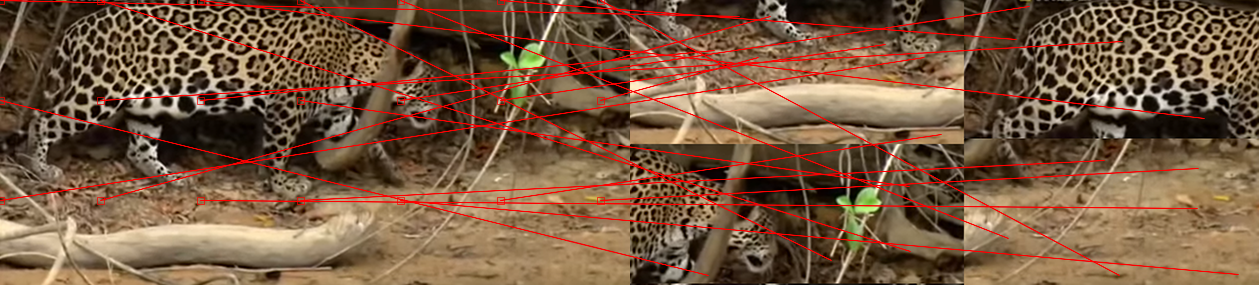
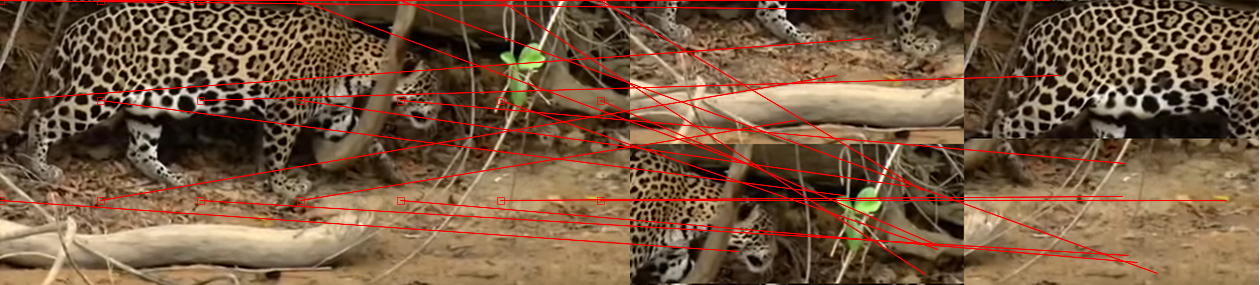
Fixed more stuff, software works, need to figure out if snipping gives better vectors

diff --git a/Assignments/Assignment 4/Code/algorithm.py b/Assignments/Assignment 4/Code/algorithm.py
@@ -29,12 +29,33 @@ np.random.seed(seed=131)
 np.seterr(divide='ignore', invalid='ignore')
 
 # MY STUFF
-# Importing heapify from heapq
+# For making heaps quickly
 from heapq import heapify
+# For convenience, way faster than numpy's
+from math import log
 
 # For accessing the different elements of the tuples
 priority, counter, displacement = 0, 1, 2
 
+
+# This is used to keep track of first availible id to us
+first_avail_id = 0
+
+# Returns an array of unique ids shaped like arr
+# to keep track of each element in arr. Used to
+# assist when trying new vector tuples on heaps.
+def make_ids(arr):
+    global first_avail_id
+
+    # Generate the list of ids, starting from the
+    # first available one
+    flat_ids = np.arange(first_avail_id, first_avail_id + arr.size)
+
+    # Update the maximum id with the new maximum
+    first_avail_id = flat_ids[-1] + 1
+
+    # Return reshaped IDs
+    return flat_ids.reshape(arr.shape)
 
 # Input:
 #   coll: some collection of same-type objects
@@ -121,19 +142,56 @@ def reverse_zip(lst_of_tups):
     return zip(*lst_of_tups)
 
 # Input:
+#   vect_arr: some array of 2D vector
+#   pos_arr: the respective origins of the above vectors
+#   rect: some (2D+) array
+# Output:
+#   Clips a vector's components such that it points inside rect
+def clip_vectors(vect_arr, pos_arr, rect):
+
+    # Coordinates of the target patches that the vector points to
+    trg_cds = vect_arr + pos_arr
+
+    # Upper / Lower X and Y bounds
+    y_lb, x_lb, y_ub, x_ub = edge_indices(rect)
+
+    # Clip the coordinates such that they're inside the rectangle
+    clipped_cds = np.clip(trg_cds,
+                          [y_lb, x_lb],
+                          [y_ub, x_ub])
+
+    # Convert the clipped coordinates back into vectors and return it
+    return (clipped_cds - pos_arr).round().astype(int)
+
+# Returns the integer number of iterations needed
+# for w*alpha^i to decay to < 1:
+def num_iters_needed(w, alpha):
+    # According to Section 3.2, random search terminates when w*alpha^i < 1
+    # Solving for i:
+    # w*alpha^i < 1
+    # =(div by w)-> alpha ^ i < 1 / w
+    # =(log both sides)-> i < -log_alpha (w)
+    # =(mult by -1) -> -i > log_alpha(w)
+
+    # Thus, we can see that the number of iterations needed for random search to terminate is about -log(w)
+
+    # Return an int, this will be used for loops
+    return int(-1 * log(w, alpha)) + 1
+
+# Input:
 #   cur_pos: 2-tuple indicating the position of the heap we want to update in the image
 #   heap_matrix: the matrix of NNF heaps
 #   dup_matrix: the matrix of items we're using to check duplicate displacements against
-#   src_heap: some NNF heap we're trying to improve heap_matrix[cur_pos] with
+#   src_tups: some list of NN-vector tuples we're trying to improve heap_matrix[cur_pos] with
 #   src_patches: patches of the source image
 #   trg_patches: patches of the target image
-# Improves heap_matrix[cur_pos] and updates dup_matrix[cur_pos] using the NN vectors
-# contained in src_heap
-def improve_heap(cur_pos, heap_matrix, dup_matrix, src_heap,
+# Improves heap_matrix[cur_pos] and updates dup_matrix[cur_pos] using the
+# NN vector tuples contained in src_tups
+def improve_heap(cur_pos, heap_matrix, dup_matrix, src_tups,
                  src_patches, trg_patches):
 
-    # Only do this if the src_heap is valid
-    if src_heap is not None:
+    # Only do this if the src_tups is valid
+    if src_tups is not None:
 
         # Accessing the stuff we want to update
         cur_heap = heap_matrix[cur_pos[0]][cur_pos[1]]
@@ -141,7 +199,7 @@ def improve_heap(cur_pos, heap_matrix, dup_matrix, src_heap,
 
         # List of tuples with their D-values updated for the
         # new position they will occupy
-        updated_tups = update_tups(cur_pos, src_heap,
+        updated_tups = update_tups(cur_pos, src_tups,
                                    src_patches, trg_patches)
 
         # For each tuple, try to improve the current heap with it
@@ -177,14 +235,16 @@ def update_tups(cur_pos, heap,
     nn_vec_arr = np.array(map(lambda tup: tup[displacement],
                               heap))
 
+    # Snip the vectors
+    nn_vec_arr = clip_vectors(nn_vec_arr, cur_pos, src_patches)
+
     # Get the D-values of the above vectors if they were to start
     # from the current position
     d_val_arr = calculate_Ds(nn_vec_arr, cur_pos,
                              src_patches, trg_patches)
 
-    # Get the counter values of these vectors
-    ctr_lst = map(lambda tup: tup[counter],
-                  heap)
+    # Making new counter values for these vectors
+    ctr_lst = make_ids(d_val_arr)
 
     # Zip the three arrays together back into a list of
     # tuples of the form [(priority, ctr, displacement)]
@@ -199,25 +259,16 @@ def update_tups(cur_pos, heap,
 #   D-value for each vector in vector_arr, ordered in the same fashion
 def calculate_Ds(vector_arr, pos, src_patches, trg_patches):
 
-    # Which vectors point outside the target
-    outside_target = np.negative(in_vectors(
-        vector_arr, pos, src_patches))
+    # KEY ASSUMPTION: none of the vectors GO OUT OF BOUNDS
+    # (HANDLE THAT CASE BEFORE CALLING THIS FUNCTION)
 
-    # Setting the vectors that point outside the target to
-    # 0,0 so they don't give OOB errors
-    good_vecs = vector_arr.copy()
-    good_vecs[outside_target] = np.array([0, 0])
-
-    # Where the above vectors end up in the target image
-    target_positions = good_vecs + pos
+    # Where the vectors end up in the target image
+    target_positions = vector_arr + pos
 
     # Selecting the patches from the source and target
     src_selection = src_patches[pos[0], pos[1]]
     trg_selection = trg_patches[target_positions[:, 0],
                                 target_positions[:, 1]]
-
-    # Set the out-vector's patches to all NaN
-    trg_selection[outside_target] = np.nan
 
     # Taking the square difference between the source and the target
     sq_diff_of_sels = (src_selection - trg_selection) ** 2
@@ -266,7 +317,7 @@ def per_pixel_improvement(cur_pos, prop_enabled, random_enabled,
     if prop_enabled:
 
         # Offset if the iteration is even is Up, Left = [-1, -1]
-        # (since coordinates are reversed in images)
+        # (coordinates are reversed in images)
         offset = -1
         if odd_iteration:
             # The offset is the opposite for even iterations
@@ -274,8 +325,8 @@ def per_pixel_improvement(cur_pos, prop_enabled, random_enabled,
 
         # Get the positions offset vertically and horizontally if possible
         # Example: on an even iteration
-        vert_pos = (cur_pos[0] + offset, cur_pos[1])
-        horz_pos = (cur_pos[0], cur_pos[1] + offset)
+        vert_pos = cur_pos + [offset, 0]
+        horz_pos = cur_pos + [0, offset]
 
         # Get the NNF heaps located at the aforementioned positions
         vert_heap = safe_lst_lookup(f_heap, vert_pos)
@@ -295,16 +346,43 @@ def per_pixel_improvement(cur_pos, prop_enabled, random_enabled,
 
     if random_enabled:
 
-        # TODO: figure out how to do random search with OOB vectors
-        # BOUND SOLUTION IN A3 made this fast!
-        # TRY RADHIKA'S SOLUTION - THAT WAS PRETTY FAST AND SHOULD WORK HERE
-
-        random_search(cur_pos, f_heap, f_coord_dictionary, alpha, w)
+        # Try to improve the heap with random search
+        random_search(cur_pos, f_heap, f_coord_dictionary,
+                      src_patches, trg_patches,
+                      alpha, w)
 
 # Does random search to attempt to improve the NN
 # vector heap located at cur_pos
-def random_search(cur_pos, f_heap, f_coord_dictionary, alpha, w):
-    pass
+def random_search(cur_pos, f_heap, f_coord_dictionary,
+                  src_patches, trg_patches, alpha, w):
+
+    iters = num_iters_needed(w, alpha)
+
+    # Radii allowed for each i
+    radii_arr = np.floor(w * (alpha ** np.arange(iters)))
+
+    # R_i in the paper (array for each i)
+    ri_vec_arr = np.random.uniform(low=[-1, -1],
+                                   high=[1,  1],
+                                   size=(iters, 2))
+    # R_i * (w * alpha^i) in the paper (array for each i)
+    rand_vecs = ri_vec_arr * radii_arr[:, np.newaxis]
+
+    # u_i in the paper (array for each i)
+    ui_arr = cur_pos + rand_vecs
+
+    # Put the u_i's into the heap format [(priority, counter, displacement)]
+    # Priority and counter are placeholders -
+    #   they'll be re-calculated during heap improvement
+    ui_tups = map(lambda vec: (1, 1, vec),
+                  ui_arr)
+
+    # Try to improve the current vector heap with the above u_i vector tuples
+    improve_heap(cur_pos,
+                 f_heap, f_coord_dictionary,
+                 ui_tups,
+                 src_patches, trg_patches)
+
 
 # ASSIGNMENT FUNCTIONS BELOW THIS POINT
 
@@ -363,8 +441,7 @@ def propagation_and_random_search_k(source_patches, target_patches,
                                     alpha, w,
                                     propagation_enabled, random_enabled,
                                     odd_iteration,
-                                    global_vars
-                                    ):
+                                    global_vars):
 
     #################################################
     ###  PLACE YOUR A3 CODE BETWEEN THESE LINES   ###
@@ -385,7 +462,8 @@ def propagation_and_random_search_k(source_patches, target_patches,
             # Try to improve each pixel with the methodology
             # described in the paper
             per_pixel_improvement(
-                (row, col), propagation_enabled, random_enabled,
+                np.array([row, col]),
+                propagation_enabled, random_enabled,
                 source_patches, target_patches,
                 f_heap, f_coord_dictionary,
                 alpha, w, odd_iteration
@@ -463,12 +541,12 @@ def NNF_matrix_to_NNF_heap(source_patches, target_patches, f_k):
     #   At arr[k, x, y], we have the 4-array [D, counter, f_y, f_x] (f_i is the i-component of f)
     combined = np.empty((f_k.shape[0], f_k.shape[1], f_k.shape[2], 4))
     # Set first component to priority (D-value)
-    combined[:, :, :, 0] = D_matr[:, :, :]
-    # Set second component to unique counter (tie breaker)
-    combined[:, :, :, 1] = np.arange((rows * cols * k)).reshape((k, rows, cols))
+    combined[..., 0] = D_matr
+    # Second component to tie breaker
+    combined[..., 1] = make_ids(combined[..., 1])
     # Set last components to nnf
-    combined[:, :, :, 2] = y_comps[:, :, :]
-    combined[:, :, :, 3] = x_comps[:, :, :]
+    combined[..., 2] = y_comps
+    combined[..., 3] = x_comps
 
     # Rearrange such that each pixel is an array of length k
     # with each element being an array of length 4
@@ -537,6 +615,14 @@ def NNF_heap_to_NNF_matrix(f_heap):
                               lst_of_tup),
                           row),
                       f_heap)
+
+    # Sort the above according to D-value
+    nested_lsts = map(lambda row:
+                      map(lambda lst_of_lsts:
+                          sorted(lst_of_lsts,
+                                 key=lambda lst: lst[priority]),
+                          row),
+                      nested_lsts)
 
     # Convert the above multi-D list to a numpy array
     numpy_arr = np.array(nested_lsts)
@@ -610,6 +696,14 @@ def reconstruct_source_from_target(target, f):
     ###  PLACE YOUR A3 CODE BETWEEN THESE LINES  ###
     ################################################
 
+    # Vectors are assumed to be within bounds, but clip them for safety
+    safe_vecs = clip_vectors(f, coords_of(f), f)
+
+    # Matrix such that element [x, y] = (x, y) + f(x, y)
+    tgt_coords = coords_of(f) + safe_vecs
+
+    # Look up pixels in target
+    rec_source = lookup_values(target, tgt_coords)
 
     #############################################
 

diff --git a/Assignments/Assignment 4/Testing/viscompTester.py b/Assignments/Assignment 4/Testing/viscompTester.py
@@ -158,7 +158,7 @@ if __name__ == '__main__':
             make_path([imgs_to_paths["Jag"], "target.png"]),
             make_path([output_path, "Jag All", "Jag All"]),
             dis_prop=False, dis_rand=False,
-            iters=3, part_res=True,
+            iters=3, k=5,
             nnf_img=True, nnf_vecs=True,
             rec_src=True),
 
@@ -169,7 +169,7 @@ if __name__ == '__main__':
             make_path([imgs_to_paths["Jag2"], "target.png"]),
             make_path([output_path, "Jag2 All", "Jag2 All"]),
             dis_prop=False, dis_rand=False,
-            iters=3, part_res=True,
+            iters=3, k=5,
             nnf_img=True, nnf_vecs=True,
             rec_src=True),
 
@@ -191,7 +191,7 @@ if __name__ == '__main__':
             make_path([imgs_to_paths["Deer"], "target.png"]),
             make_path([output_path, "Deer All", "Deer All"]),
             dis_prop=False, dis_rand=False,
-            iters=3, part_res=True,
+            iters=3,
             nnf_img=True, nnf_vecs=True,
             rec_src=True),
 
@@ -202,7 +202,7 @@ if __name__ == '__main__':
             make_path([imgs_to_paths["Raptor"], "target.png"]),
             make_path([output_path, "Raptor All", "Raptor All"]),
             dis_prop=False, dis_rand=False,
-            iters=3, part_res=True,
+            iters=3,
             nnf_img=True, nnf_vecs=True,
             rec_src=True),
 
@@ -213,7 +213,7 @@ if __name__ == '__main__':
             make_path([imgs_to_paths["Stormtrooper"], "target.png"]),
             make_path([output_path, "Stormtrooper All", "Stormtrooper All"]),
             dis_prop=False, dis_rand=False,
-            iters=3, part_res=True,
+            iters=3,
             nnf_img=True, nnf_vecs=True,
             rec_src=True),
 
@@ -224,7 +224,7 @@ if __name__ == '__main__':
             make_path([imgs_to_paths["Doge"], "target.png"]),
             make_path([output_path, "Doge All", "Doge All"]),
             dis_prop=False, dis_rand=False,
-            iters=3, part_res=True,
+            iters=3,
             nnf_img=True, nnf_vecs=True,
             rec_src=True),
 
@@ -235,7 +235,7 @@ if __name__ == '__main__':
             make_path([imgs_to_paths["Jag2"], "target.png"]),
             make_path([output_path, "Jag2 NoProp", "Jag2 NoProp"]),
             dis_prop=True, dis_rand=False,
-            iters=9, part_res=True,
+            iters=9, k=4,
             nnf_img=True, nnf_vecs=True,
             rec_src=True),
 
@@ -246,14 +246,14 @@ if __name__ == '__main__':
             make_path([imgs_to_paths["Jag2"], "target.png"]),
             make_path([output_path, "Jag2 NoRand", "Jag2 NoRand"]),
             dis_prop=False, dis_rand=True,
-            k=5, iters=3, part_res=True,
+            k=5, iters=3,
             nnf_img=True, nnf_vecs=True,
             rec_src=True)
     }
 
     # List of tests that are okay to run with the algorithm
     # (because some actually can overload RAM or take forever)
-    okay_to_run = ["Jag2 NoRand"]
+    okay_to_run = ["Jag2 All"]
 
     for test in okay_to_run:
         run_command(test_dct[test])

diff --git a/Assignments/Assignment 3/Testing/viscompTester.py b/Assignments/Assignment 3/Testing/viscompTester.py
@@ -168,8 +168,6 @@ if __name__ == '__main__':
             make_path([imgs_to_paths["Jag2"], "source.png"]),
             make_path([imgs_to_paths["Jag2"], "target.png"]),
             make_path([output_path, "Jag2 All", "Jag2 All"]),
-            init_NNF=make_path([imgs_to_paths["Jag2"],
-                                "jaguar2.init.npy"]),
             dis_prop=False, dis_rand=False,
             iters=3, part_res=True,
             nnf_img=True, nnf_vecs=True,
